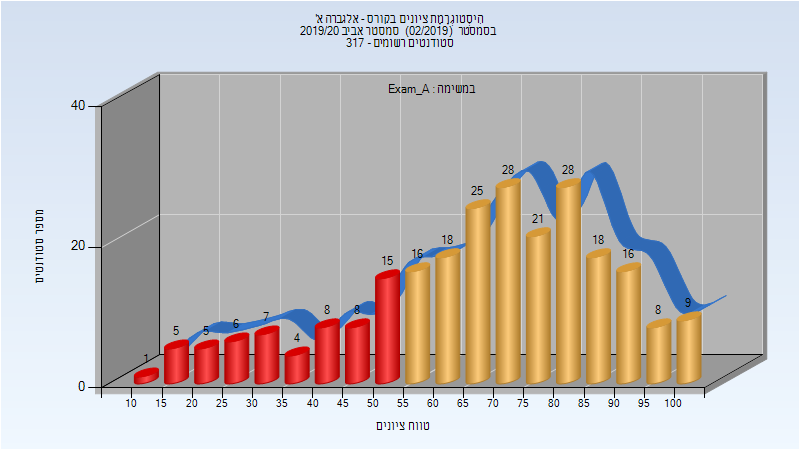
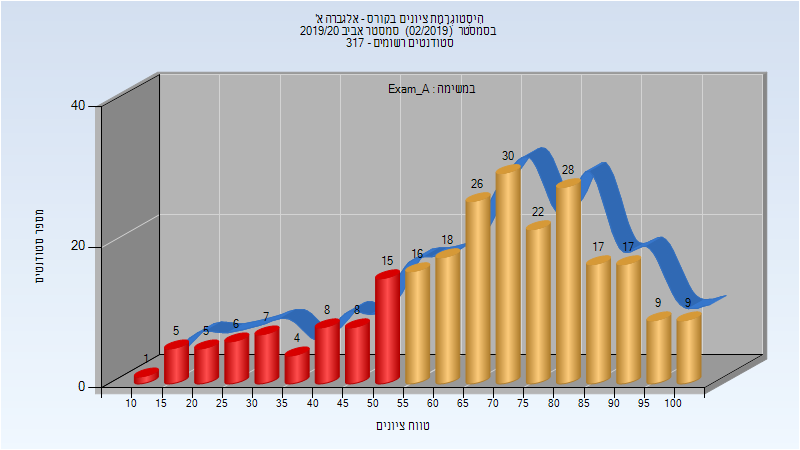
Deploy michael-maltsev/technion-histograms to github.com/michael-maltsev/technion-histograms.git:gh-pages

diff --git a/104166/index.html b/104166/index.html
@@ -1341,12 +1341,12 @@
 </thead>
 <tbody>
 <tr>
-<td>246</td>
-<td>187/59</td>
+<td>251</td>
+<td>192/59</td>
 <td>76</td>
 <td>10</td>
 <td>100</td>
-<td>67.264</td>
+<td>67.494</td>
 <td>70</td>
 </tr>
 </tbody>
@@ -1367,12 +1367,12 @@
 </thead>
 <tbody>
 <tr>
-<td>246</td>
-<td>200/46</td>
-<td>81</td>
+<td>251</td>
+<td>205/46</td>
+<td>82</td>
 <td>14</td>
 <td>100</td>
-<td>69.321</td>
+<td>69.522</td>
 <td>73</td>
 </tr>
 </tbody>

diff --git a/104166/README.md b/104166/README.md
@@ -420,7 +420,7 @@
 
 | סטודנטים | עברו/נכשלו | אחוז עוברים | ציון מינימלי | ציון מקסימלי | ממוצע | חציון |
 | ---- | ---- | ---- | ---- | ---- | ---- | ---- |
-| 246 | 187/59 | 76 | 10 | 100 | 67.264 | 70 |
+| 251 | 192/59 | 76 | 10 | 100 | 67.494 | 70 |
 
 ### סופי מועד א'
 
@@ -428,5 +428,5 @@
 
 | סטודנטים | עברו/נכשלו | אחוז עוברים | ציון מינימלי | ציון מקסימלי | ממוצע | חציון |
 | ---- | ---- | ---- | ---- | ---- | ---- | ---- |
-| 246 | 200/46 | 81 | 14 | 100 | 69.321 | 73 |
+| 251 | 205/46 | 82 | 14 | 100 | 69.522 | 73 |
 
